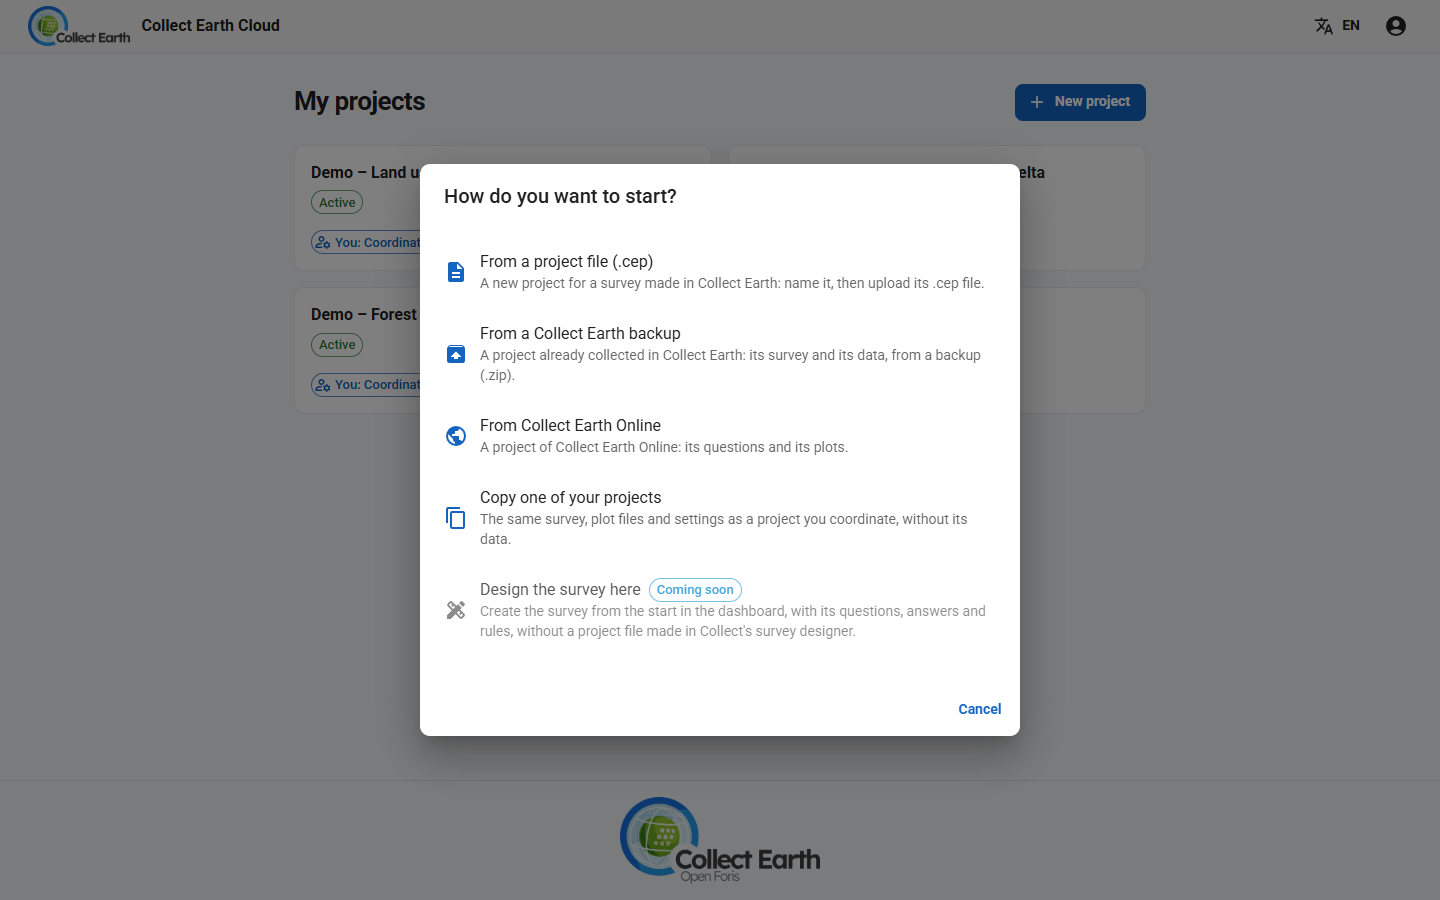
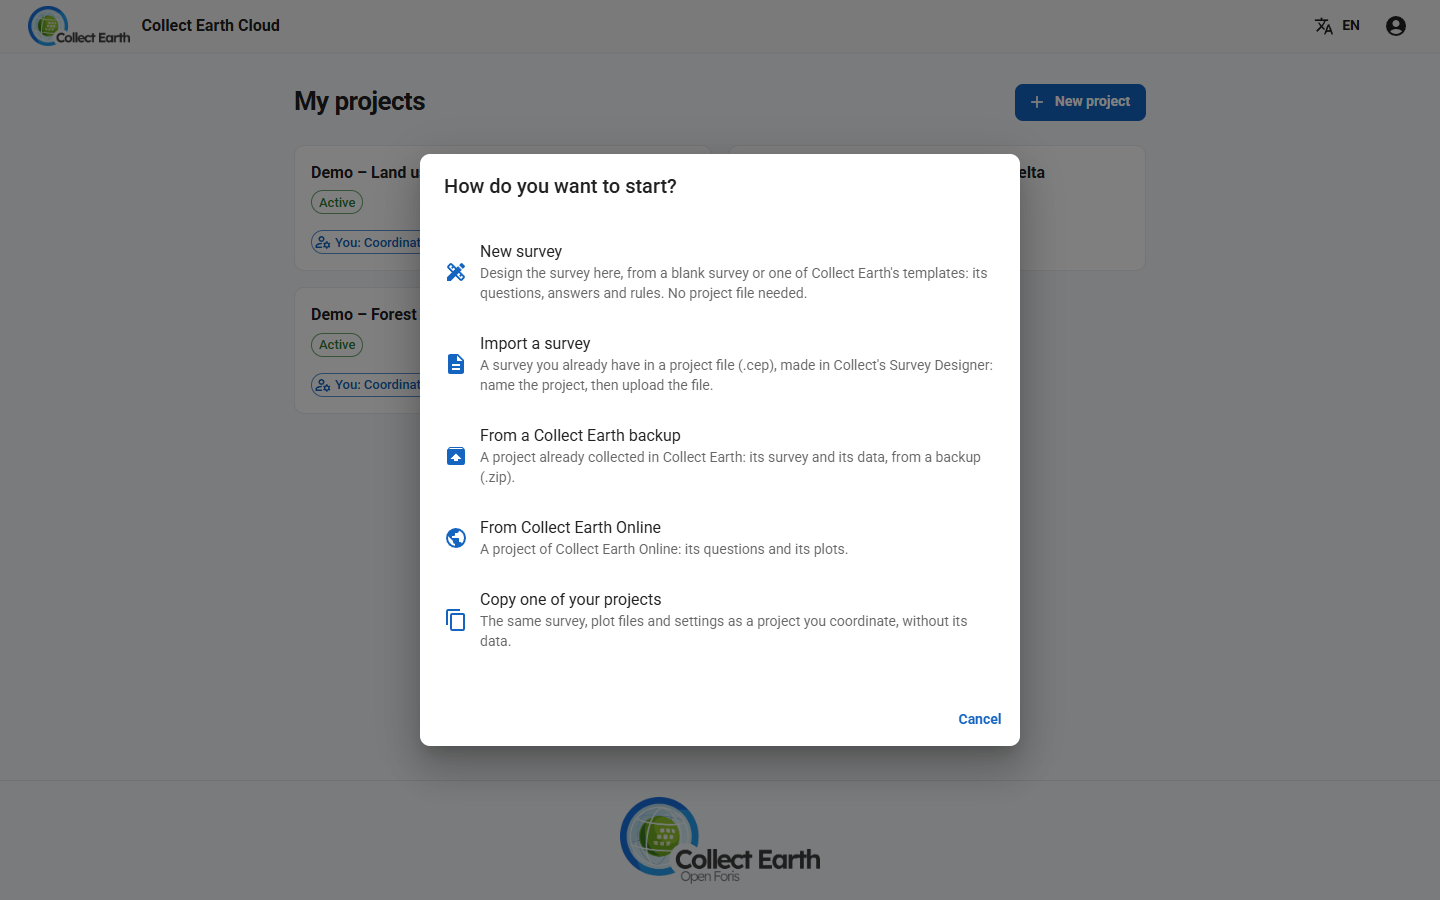
Website: the survey designed in the dashboard (New survey, cards, duplicate, drag, pasted answers)
The coordinators guide no longer says the dashboard's survey designer is coming soon:
New project lists New survey and Import a survey, and "The survey and the project file"
explains designing the survey here, card by card, then importing a project file.
New screenshots of the New project dialog and of the survey being edited.

Claude-Session: https://claude.ai/code/session_015tsWZ6qFfmCXDKURC7KrcT

diff --git a/guide/coordinators.html b/guide/coordinators.html
@@ -76,22 +76,37 @@
   <h2 id="account">Your account and a new project</h2>
   <ol class="steps">
     <li>Open <a href="https://cloud.collectearth.org">cloud.collectearth.org</a>, the free server run by FAO, and <span class="ui">Log in</span>. On this server only the administrators create projects: ask FAO to create yours, or to let your account create projects. On <a href="own-server.html">your own server</a>, its administrator decides <span class="ui">Who can create projects</span>.</li>
-    <li>With project creation allowed, press <span class="ui">New project</span> on <span class="ui">My projects</span> and choose how to start: <span class="ui">From a project file (.cep)</span> (type the project's name, then upload the file), <span class="ui">From a Collect Earth backup</span>, <span class="ui">From Collect Earth Online</span> (see <a href="#ceo">below</a>), or <span class="ui">Copy one of your projects</span>. <span class="ui">Design the survey here</span>, to write the survey in the dashboard itself, is coming soon.</li>
+    <li>With project creation allowed, press <span class="ui">New project</span> on <span class="ui">My projects</span> and choose how to start: <span class="ui">New survey</span> (design the survey in the dashboard, from a blank survey or one of Collect Earth's templates: see <a href="#designer">below</a>), <span class="ui">Import a survey</span> (type the project's name, then upload a project file, <code>.cep</code>), <span class="ui">From a Collect Earth backup</span>, <span class="ui">From Collect Earth Online</span> (see <a href="#ceo">below</a>), or <span class="ui">Copy one of your projects</span>.</li>
     <li>To start from work already done, choose <span class="ui">From a Collect Earth backup</span>: it takes Collect Earth's compressed XML export, or an Open Foris Collect backup, with the survey and the plots already assessed. Those plots go in a plot file of their own, ending in <code>_done.csv</code>; leave it out when you give out the plots.</li>
     <li>The project opens on <span class="ui">Setup › Overview</span>, with a <span class="ui">Getting started</span> checklist: upload the project file, add plot files, invite people, choose who collects each plot file, follow the progress. While nobody has sent a plot yet, it also suggests to <span class="ui">Train the team first (optional)</span>: see <a href="#mapathon">a mapathon to start</a>.</li>
   </ol>
-  <figure><img src="../img/screens/new-project.png" alt="The New project dialog" loading="lazy"><figcaption>New project: from a project file, a backup, Collect Earth Online or a copy of one of your projects.</figcaption></figure>
+  <figure><img src="../img/screens/new-project.png" alt="The New project dialog" loading="lazy"><figcaption>New project: a new survey designed here, a survey imported from a project file, a backup, Collect Earth Online or a copy of one of your projects.</figcaption></figure>
   <figure><img src="../img/screens/my-projects.png" alt="The My projects page" loading="lazy"><figcaption>My projects: every project you belong to, with your role in it.</figcaption></figure>
   <figure><img src="../img/screens/project-checklist.png" alt="A new project's Getting started checklist" loading="lazy"><figcaption>A new project shows what to do next.</figcaption></figure>
   <p>On a wide screen the tabs sit in a sidebar, grouped as <span class="ui">Monitor</span> (Progress, Map, Quality, Activity), <span class="ui">Team and plots</span> (People, Training), <span class="ui">Results</span> (Data) and <span class="ui">Project</span> (Setup). Everything you set once lives in <span class="ui">Setup</span>, one section at a time: <span class="ui">Overview</span>, <span class="ui">Survey form</span>, <span class="ui">Plots</span>, <span class="ui">Areas</span>, <span class="ui">Plot layout &amp; imagery</span>, <span class="ui">Quality rules</span>, <span class="ui">Schedule</span>, <span class="ui">Sharing</span>, <span class="ui">Next round</span> and <span class="ui">Project</span>. A section gets a tick once its steps of the checklist are done.</p>
 
   <h2 id="file">The survey and the project file</h2>
-  <p>The project file (<code>.cep</code>) holds the survey: the questions, the form and the project's settings. It is the same file Collect Earth opens on a computer. Design it in the Open Foris Collect survey designer and export it as a Collect Earth project.</p>
+  <p>The project file (<code>.cep</code>) holds the survey: the questions, the form and the project's settings. It is the same file Collect Earth opens on a computer. Design the survey here, in the dashboard, or import one made in the Open Foris Collect survey designer and exported as a Collect Earth project.</p>
+  <p>Either way, <span class="ui">Setup › Survey form</span> shows under <span class="ui">The survey</span> what it asks, card by card, as people see it in Collect Earth: each question with when it is shown, whether it is required, its limits and its list of answers, written in words (&ldquo;shown when Land use is Forest&rdquo;) and in each of the survey's languages. <span class="ui">Preview the form</span> shows the form itself. Check it before you invite anyone.</p>
+
+  <h3 id="designer">Designing the survey in the dashboard</h3>
+  <ol class="steps">
+    <li>Choose <span class="ui">New survey</span> when you create the project, and start from a blank survey or one of Collect Earth's templates: the demonstration, the multipurpose or the IPCC template. Give the survey's title and the language you write it in.</li>
+    <li>In <span class="ui">Setup › Survey form</span>, press <span class="ui">Edit the survey</span>. <span class="ui">Go to a card</span> lists the form's cards with their number of questions: press one to open it and go there, or <span class="ui">Open all cards</span> and <span class="ui">Close all cards</span>.</li>
+    <li>Add questions and tables with <span class="ui">Add a question</span> and <span class="ui">Add a table</span>, or press <strong>+</strong> on a question to add one right below it; <span class="ui">Add and write another</span> keeps the dialog open for the next one. The copy button duplicates a question below itself, with its answers, conditions and rules: type its new text and it is ready.</li>
+    <li>Drag a question, a table or an answer by its handle (<strong>⋮⋮</strong>) to move it, also onto another card or onto a card's name in <span class="ui">Go to a card</span>. The arrows and <span class="ui">Move to another card</span> do the same with the keyboard.</li>
+    <li>Answers are typed one per line. Into an answer list you can also paste rows copied from a spreadsheet, the code then the answer's text, and they are added together.</li>
+    <li>The eye says when a question is shown, <span class="ui">Required</span> whether it must be answered, and <span class="ui">Add a rule</span> what its answer must respect (a range, a total, a condition). A change of the questions is saved at once, after showing what it does to the plots already collected; the texts you type are saved with <span class="ui">Save</span>. <span class="ui">Earlier versions</span> keeps the survey before each change, to bring it back.</li>
+    <li>For the translations, choose the language with the buttons under the survey's title, or <span class="ui">Download the texts</span> as a spreadsheet for the translators and <span class="ui">Upload the texts</span> when they are done.</li>
+    <li>People who already have the project file get the changed survey by themselves: Collect Earth (from 2.0) tells them within ten minutes, and takes it when they press <span class="ui">Update now</span>.</li>
+  </ol>
+  <figure><img src="../img/screens/survey-designer.png" alt="Editing the survey in the dashboard" loading="lazy"><figcaption>Editing the survey: the cards to go to, and each question's tools to drag, move, show, add below, duplicate or delete it.</figcaption></figure>
+
+  <h3 id="import">Importing a project file</h3>
   <ol class="steps">
     <li>Open <span class="ui">Setup › Survey form</span> and drag the <code>.cep</code> onto it, or press <span class="ui">Choose the .cep file</span>.</li>
     <li>If the file carries plot grids, choose <span class="ui">Merge into one plot file</span> or add them as separate files.</li>
-    <li>Under the file, <span class="ui">The survey</span> shows what it asks, page by page, as people see it in Collect Earth: each question with when it is shown, whether it is required, its limits and its list of answers, written in words (&ldquo;shown when Land use is Forest&rdquo;) and in each of the survey's languages. Check it here before you invite anyone.</li>
-    <li>To change the survey later, press <span class="ui">Choose a new version</span>. People who join from now on get the new version; people already in keep the old one. For each of them, open their page in <span class="ui">People</span> and press <span class="ui">Make a link for the new project file</span>; they paste it in Collect Earth with <span class="ui">File › Join cloud project...</span>.</li>
+    <li>To change the survey later, edit it here (see <a href="#designer">above</a>), or press <span class="ui">Choose a new version</span> to upload a new project file. People who join from now on get the new version; people already in keep the old one. For each of them, open their page in <span class="ui">People</span> and press <span class="ui">Make a link for the new project file</span>; they paste it in Collect Earth with <span class="ui">File › Join cloud project...</span>.</li>
   </ol>
 
   <h3 id="layout">Plot layout and imagery windows</h3>
